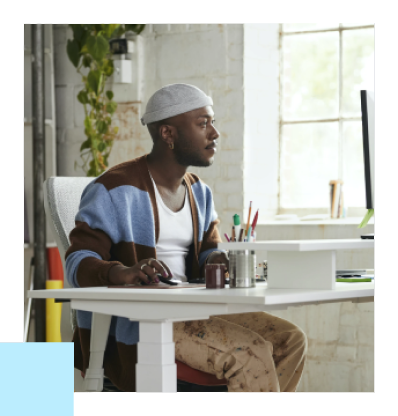
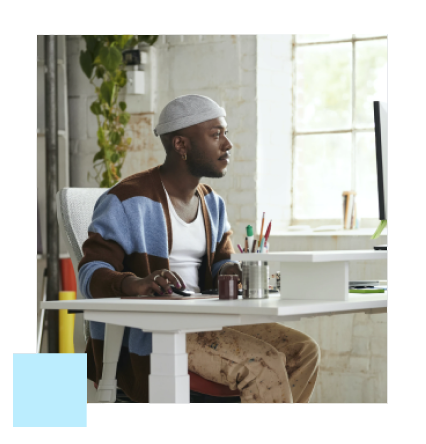
resource

diff --git a/src/Components/Option/Option.jsx b/src/Components/Option/Option.jsx
@@ -1,0 +1,69 @@
+import React from 'react';
+import { FaCheck, FaArrowLeft, FaArrowRight } from "react-icons/fa";
+import chack from '../../Assets/chack.png';
+import sec1 from '../../Assets/sec1.png';
+import sec2 from '../../Assets/sec2.png';
+import sec3 from '../../Assets/sec3.png';
+import client2 from '../../Assets/client2.png';
+
+const Option = () => {
+    return (
+        <div className='max-w-[1120px] mx-auto my-40 px-4 md:px-0'>
+            <div className='md:flex gap-10 my-20 flex-row-reverse'>
+                <div className='md:w-1/2'>
+                    <img src={sec1} alt="" />
+                </div>
+                <div className='md:w-1/2'>
+                    <div className='max-w-[400px]'>
+                        <p className='py-4 px-6 bg-slate-200 w-16 mb-4'>FEATURE</p>
+                        <h1 className='text-4xl font-bold'>You’re not just doing business. You’re doing life.</h1>
+                        <div>
+                            <div className='mt-20'>
+                                <p className='flex items-center gap-2 my-2'><span className='text-blue-500 p-3 bg-blue-100 rounded-full'><FaCheck /></span>Responsive Components</p>
+                                <p className='flex items-center gap-2 my-2'><span className='text-blue-500 p-3 bg-blue-100 rounded-full'><FaCheck /></span>Over 50 Sections</p>
+                                <p className='flex items-center gap-2 my-2'><span className='text-blue-500 p-3 bg-blue-100 rounded-full'><FaCheck /></span>Handcrafted Pages</p>
+                            </div>
+                        </div>
+                    </div>
+                </div>
+
+            </div>
+            <div className='md:flex gap-10 my-20'>
+                <div className='md:w-1/2'>
+                    <img src={sec2} alt="" />
+                </div>
+                <div className='md:w-1/2'>
+                    <div className='max-w-[400px] py-10'>
+                        <div className='mb-4 flex'>
+                            <p className='py-4 px-6 bg-slate-200 w-16  uppercase'>Our</p>
+                            <p className='py-4 pl-0 px-6 uppercase'>knowledge</p>
+                        </div>
+                        <h1 className='text-4xl font-bold'>A UI Kit that's Modern & Elegant
+                        </h1>
+                        <p className='mt-20'>Lorem ipsum dolor sit amet, consectetur adipiscing elit. Cras eget consectetur eros. Aliquam erat volutpat.</p>
+                    </div>
+                </div>
+            </div>
+            <div className='md:flex gap-10 my-20 flex-row-reverse'>
+                <div className='md:w-1/2'>
+                    <img src={sec3} alt="" />
+                </div>
+                <div className='md:w-1/2'>
+                    <div className='max-w-[400px]'>
+                        <img className='max-w-[200px] mx-auto my-10' src={client2} alt="" />
+                        <p className='text-center max-w-[220px] text-lg font-bold mx-auto mb-10'>The Opus UI Kit lets you showcase your work in style. It's helped take our business online</p>
+                        <p className='uppercase font-bold text-center'>Alexa F.</p>
+                        <p className='uppercase font-bold text-slate-400 text-center my-3'>Designer <span className='text-blue-600'>@Stamps</span></p>
+                        <div className='flex max-w-[130px] justify-between mx-auto'>
+                            <div className='p-4 bg-slate-200'><FaArrowLeft /></div>
+                            <div className='p-4 bg-slate-200'><FaArrowRight /></div>
+                        </div>
+                    </div>
+                </div>
+
+            </div>
+        </div>
+    );
+};
+
+export default Option;

diff --git a/src/Components/Resource/Resource.jsx b/src/Components/Resource/Resource.jsx
@@ -1,0 +1,54 @@
+import React from 'react';
+import resource1 from '../../Assets/resource1.png';
+import resource2 from '../../Assets/resource2.png';
+import resource3 from '../../Assets/resource3.png';
+
+const Resource = () => {
+
+    const info = [
+        {
+            img: resource1,
+            title: 'Project Management',
+            details: 'Lorem ipsum dolor sit amet, consectetur adipiscing elit. Cras eget consectetur eros. Aliquam erat volutpat.'
+        },
+        {
+            img: resource2,
+            title: 'Project Management',
+            details: 'Lorem ipsum dolor sit amet, consectetur adipiscing elit. Cras eget consectetur eros. Aliquam erat volutpat.'
+        },
+        {
+            img: resource3,
+            title: 'Project Management',
+            details: 'Lorem ipsum dolor sit amet, consectetur adipiscing elit. Cras eget consectetur eros. Aliquam erat volutpat.'
+        }
+    ]
+
+    return (
+        <div className=''>
+            <div className='max-w-[1120px] mx-auto px-4 md:px-0'>
+                <div className='py-16'>
+                    <div className='md:flex items-center justify-between md:px-10 text-center px-5'>
+                        <h1 className="text-3xl font-bold my-5">Resources</h1>
+                        <div>
+                            <a href="learn" className='button'>Get Started</a>
+                        </div>
+                    </div>
+                    <div className='grid md:grid-cols-3 grid-cols-1 gap-10'>
+                        {
+                            info.map((item, index) => <div key={index}>
+                                <img className='w-full' src={item.img} alt="" />
+                                <div className=''>
+                                    <h1 className='text-2xl font-bold py-3'>Project Management</h1>
+                                    <p>Lorem ipsum dolor sit amet, consectetur adipiscing elit. Cras eget consectetur eros. Aliquam erat volutpat.</p>
+                                    <button href="article" className='p-3 px-6 bg-slate-100 my-5 block'>Read Article</button>
+                                </div>
+                            </div>)
+                        }
+                    </div>
+                </div>
+            </div>
+        </div>
+    );
+};
+
+export default Resource;

diff --git a/src/Components/workWithUs/WorkWithUs.jsx b/src/Components/workWithUs/WorkWithUs.jsx
@@ -1,0 +1,53 @@
+import React from 'react';
+import team1 from '../../Assets/team1.png';
+import team2 from '../../Assets/team2.png';
+import team3 from '../../Assets/team3.png';
+
+const WorkWithUs = () => {
+
+    const info = [
+        {
+            img: team1,
+            title: 'Project Management',
+            details: 'Lorem ipsum dolor sit amet, consectetur adipiscing elit. Cras eget consectetur eros. Aliquam erat volutpat.'
+        },
+        {
+            img: team2,
+            title: 'Project Management',
+            details: 'Lorem ipsum dolor sit amet, consectetur adipiscing elit. Cras eget consectetur eros. Aliquam erat volutpat.'
+        },
+        {
+            img: team3,
+            title: 'Project Management',
+            details: 'Lorem ipsum dolor sit amet, consectetur adipiscing elit. Cras eget consectetur eros. Aliquam erat volutpat.'
+        }
+    ]
+
+    return (
+        <div className='dark-blue'>
+            <div className='max-w-[1120px] mx-auto '>
+                <div className='py-16'>
+                    <div className='md:flex items-center text-white justify-between md:px-10 text-center px-5'>
+                        <h1 className="text-3xl font-bold my-5">Ways to work with us</h1>
+                        <div>
+                            <a href="learn" className='button'>Get Started</a>
+                        </div>
+                    </div>
+                    <div className='grid md:grid-cols-3 grid-cols-1 text-white'>
+                        {
+                            info.map((item, index) => <div key={index}>
+                                <img className='w-full' src={item.img} alt="" />
+                                <div className='px-8'>
+                                    <h1 className='text-2xl font-bold'>Project Management</h1>
+                                    <p>Lorem ipsum dolor sit amet, consectetur adipiscing elit. Cras eget consectetur eros. Aliquam erat volutpat.</p>
+                                </div>
+                            </div>)
+                        }
+                    </div>
+                </div>
+            </div>
+        </div>
+    );
+};
+
+export default WorkWithUs;

diff --git a/src/Components/CreatePage/CreatePage.jsx b/src/Components/CreatePage/CreatePage.jsx
@@ -1,0 +1,43 @@
+import React from 'react';
+import icon from '../../Assets/icon2.png'
+import icon2 from '../../Assets/icon3.png'
+
+const CreatePage = () => {
+    return (
+        <div className='max-w-[1120px] mx-auto'>
+            <div className='md:flex gap-5 my-10 md:flex-row-reverse'>
+                <div className='md:w-1/2 '>
+                    <h1 className='text-3xl font-bold'>Create pages using beautiful components.</h1>
+                    <p className='pl-10 my-10'>Lorem ipsum dolor sit amet, consectetur adipiscing elit. Suspendisse varius enim in eros elementum tristique. Duis cursus, mi quis viverra ornare, eros dolor interdum nulla.</p>
+                    <div className='my-5 pt-5'>
+                        <a href="learn" className='px-5 py-3 bg-slate-200 ml-10'>Learn More</a>
+                    </div>
+                </div>
+                <div className='md:w-1/2'>
+                    <div className='flex gap-5 my-10 pt-20 md:pt-0'>
+                        <div>
+                            <img className='w-[84px]' src={icon} alt="" />
+                        </div>
+                        <div>
+                            <h1 className='text-xl font-bold'>Chose <br /> your section</h1>
+                            <p>Lorem ipsum dolor sit amet, consectetur adipiscing elit. Suspendisse varius enim in eros elementum tristique.</p>
+                        </div>
+                    </div>
+                    <div className='flex gap-5'>
+                        <div>
+                            <img className='w-[84px]' src={icon2} alt="" />
+                        </div>
+                        <div>
+                            <h1 className='text-xl font-bold'>Add the images <br />and text you need
+                            </h1>
+                            <p>Lorem ipsum dolor sit amet, consectetur adipiscing elit. Suspendisse varius enim in eros elementum tristique.</p>
+                        </div>
+                    </div>
+                </div>
+
+            </div>
+        </div>
+    );
+};
+
+export default CreatePage;

diff --git a/src/Components/Custom/Custom.jsx b/src/Components/Custom/Custom.jsx
@@ -20,19 +20,25 @@ const Custom = () => {
                     </div>
 
                 </div>
-                <div className=''>
+                <div className='h-[300px]'>
                     <div className='offer-box'>
-                        <div className='w-[300px] p-5 mx-auto bg-white mb-10'>
+                        <div className='max-w-[300px] p-5 mx-auto bg-white mb-10'>
                             <img className='w-5' src={cursor} alt="" />
                             <p className='font-bold'>Build or Customize a <br /> Website in Minutes</p>
                         </div>
-                        <div className='w-[300px] p-5 mx-auto bg-white'>
+                        <div className='max-w-[300px] p-5 mx-auto bg-white'>
                             <img className='w-5' src={rocket} alt="" />
                             <p className='font-bold'>Our UI Kit was made for <br /> creativity.</p>
                         </div>
                     </div>
-                    <div className='w-[350px] h-[350px] bg-slate-200 shadow-box absolute'>
+                    <div className='w-full flex shadow-box relative'>
+                        <div className='w-1/3'></div>
+                        <div className='w-2/3 bg-slate-200 h-[300px]'></div>
                     </div>
+                    {/* <div className='shadow-box relative ml-24'>
+                        <div className='w-1/5 h-[80px] bg-slate-200'></div>
+                        <div className='w-4/5'></div>
+                    </div> */}
                 </div>
             </div>
         </div>

diff --git a/src/App.js b/src/App.js
@@ -1,9 +1,13 @@
 import './App.css';
 import Client from './Components/Client/Client';
+import CreatePage from './Components/CreatePage/CreatePage';
 import Custom from './Components/Custom/Custom';
 import Header from './Components/Header/Header';
 import Navbar from './Components/Navbar/Navbar';
+import Option from './Components/Option/Option';
+import Resource from './Components/Resource/Resource';
 import VideoTitel from './Components/VideoTitle/VideoTitel';
+import WorkWithUs from './Components/workWithUs/WorkWithUs';
 
 function App() {
     return (
@@ -12,7 +16,11 @@ function App() {
             <Header />
             <Client />
             <VideoTitel />
-            <Custom/>
+            <Custom />
+            <WorkWithUs />
+            <CreatePage />
+            <Option />
+            <Resource/>
         </div>
     );
 }

diff --git a/src/Components/Custom/Custome.css b/src/Components/Custom/Custome.css
@@ -1,6 +1,5 @@
 .shadow-box{
     bottom:270px;
-    right:-195px;
     z-index: 0;
 }
 
